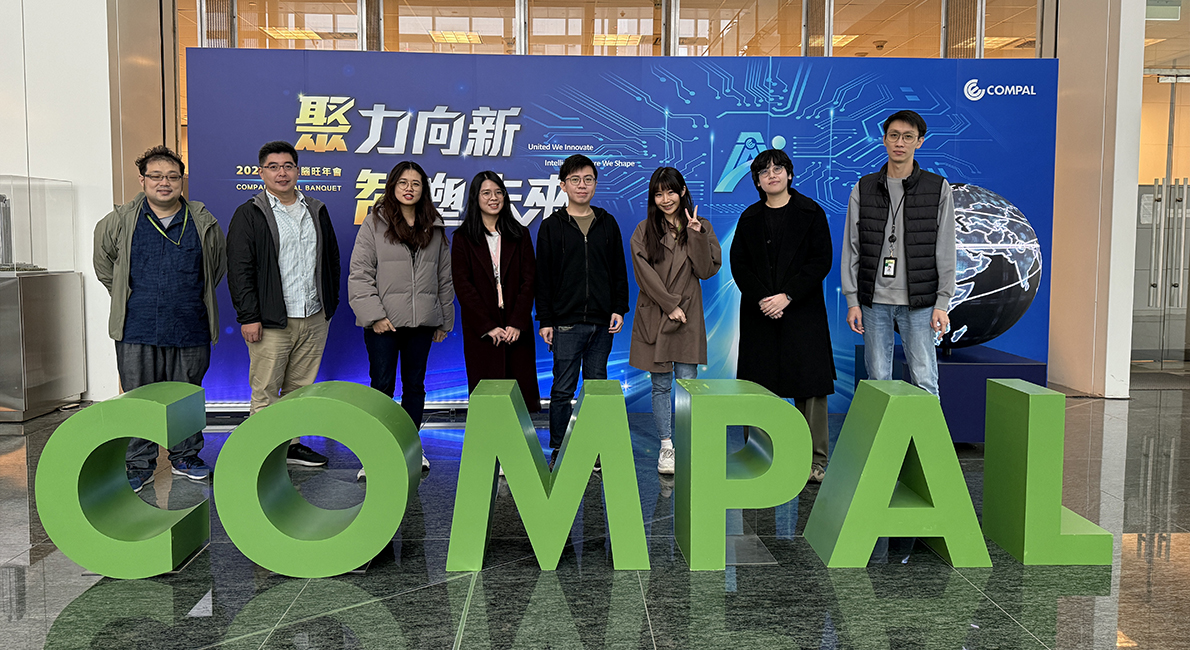
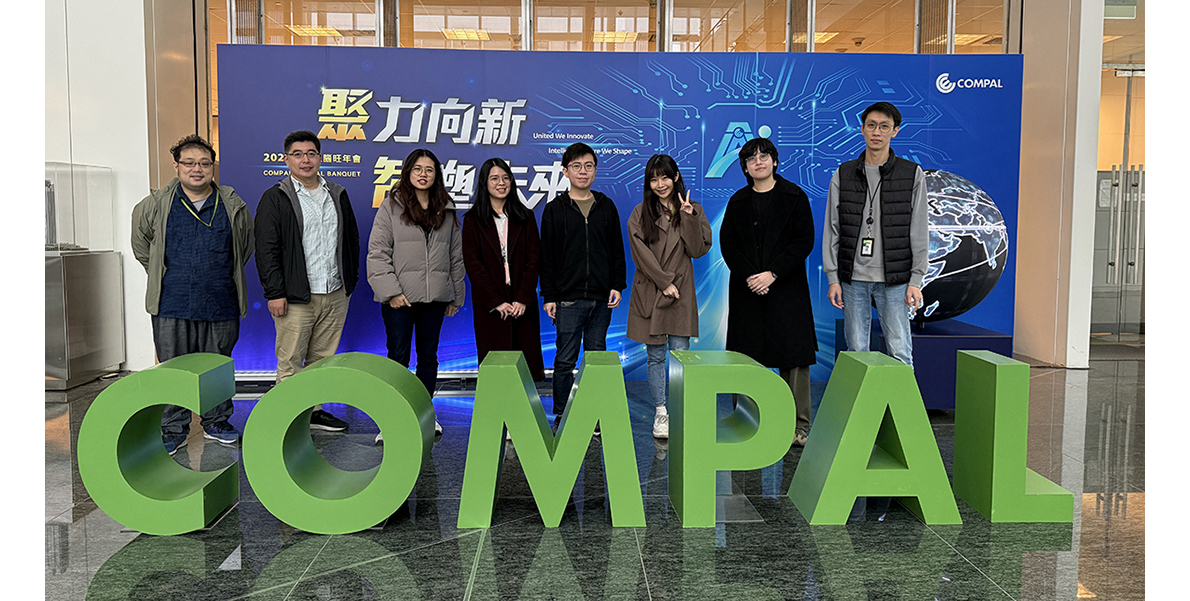
new

diff --git a/excellent.html b/excellent.html
@@ -77,9 +77,9 @@ body {
        </div>
        
       <div id="company5">
-        <iframe src="excellentimage.html" width="1190" height="650" marginwidth="0" marginheight="0" scrolling="no" frameborder="0"></iframe>
-        <p>&nbsp;</p>
-         <table width="98%" border="0" align="center" cellpadding="0" cellspacing="1" bgcolor="#000000" class="A2text">
+        <iframe src="excellentimage.html" width="100%" height="650" marginwidth="0" marginheight="0" scrolling="no" frameborder="0"></iframe>
+      <p></p> 
+         <table width="95%" border="0" align="center" cellpadding="0" cellspacing="1" bgcolor="#000000" class="A2text">
            <tbody>
              <tr>
                <td width="23%" align="center" valign="middle" bgcolor="#859ECD">部門名稱</td>
